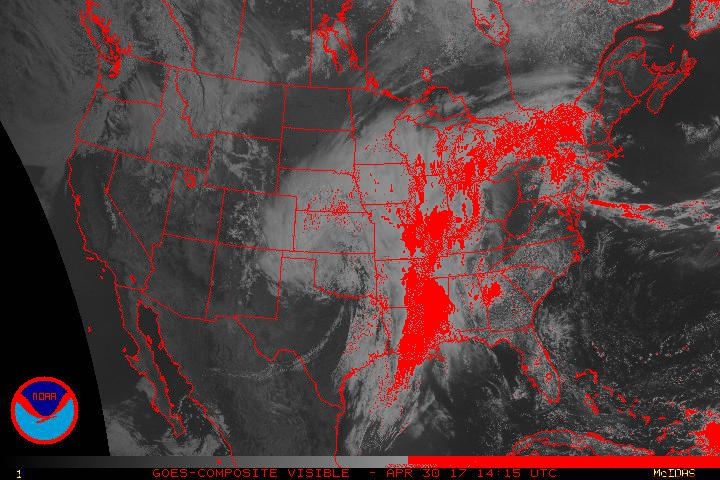
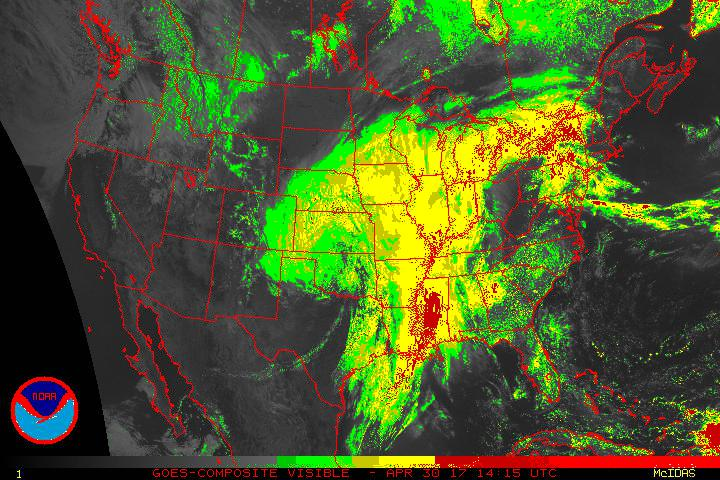
adding levels spreadsheet

diff --git a/falsecolor.py b/falsecolor.py
@@ -19,9 +19,12 @@ class FalseColor():
 
     # actual rgb, dev, new rgb
     LEVELS = [
-        (200, 200, 200, 55, 255, 0, 0)
-        # ,
-        # (55, 55, 55, 55, 255, 0, 0)
+        (225, 225, 225, 30, 255, 0, 0),
+        (175, 175, 175, 20, 200, 0, 0),
+        (145, 145, 145, 10, 255, 255, 0),
+        (130, 130, 130, 5, 200, 200, 0),
+        (115, 115, 115, 10, 0, 255, 0),
+        (102, 102, 102, 3, 0, 200, 0),
     ]
 
     def evaluate_image(self):
